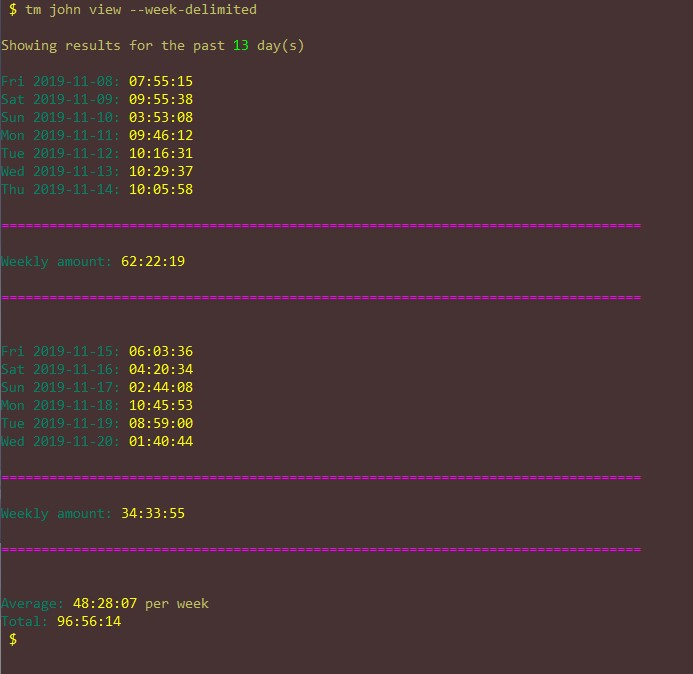
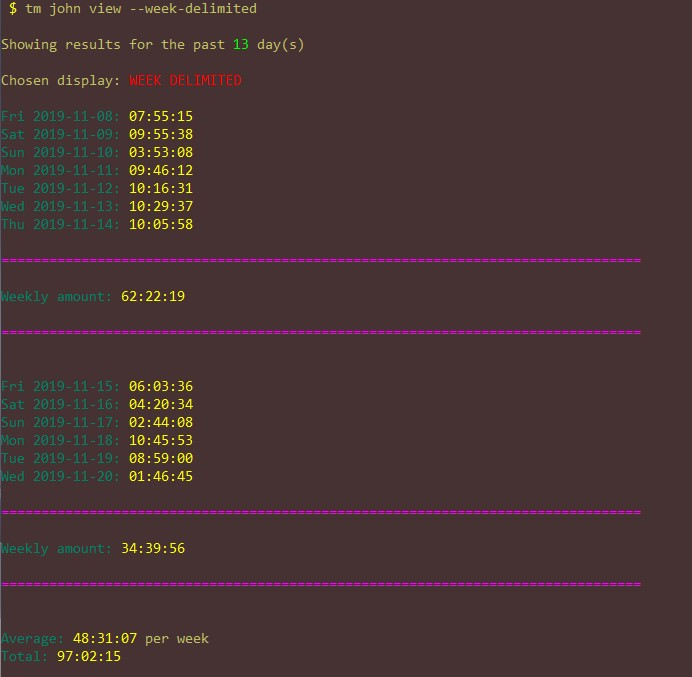
Update week-delimited output to include Chosen display: WEEK DELIMITED

diff --git a/lib/view.py b/lib/view.py
@@ -210,6 +210,12 @@ def week_delimited(timeframe_from: int, timeframe_to: int,
     total_seconds = sum(daily_times)
     average_seconds = total_seconds // num_weeks
 
+    if colored:
+        print(f'Chosen display: {colors.FG.BRIGHT.RED}'
+              f'WEEK DELIMITED{colors.RESET}\n')
+    else:
+        print('Chosen display: WEEK DELIMITED\n')
+
     for dates, daily_times in zip(week_dates, week_daily_times):
         for date, daily_time in zip(dates, daily_times):
             date = date.strftime(DATE_FORMAT_PATTERN)
